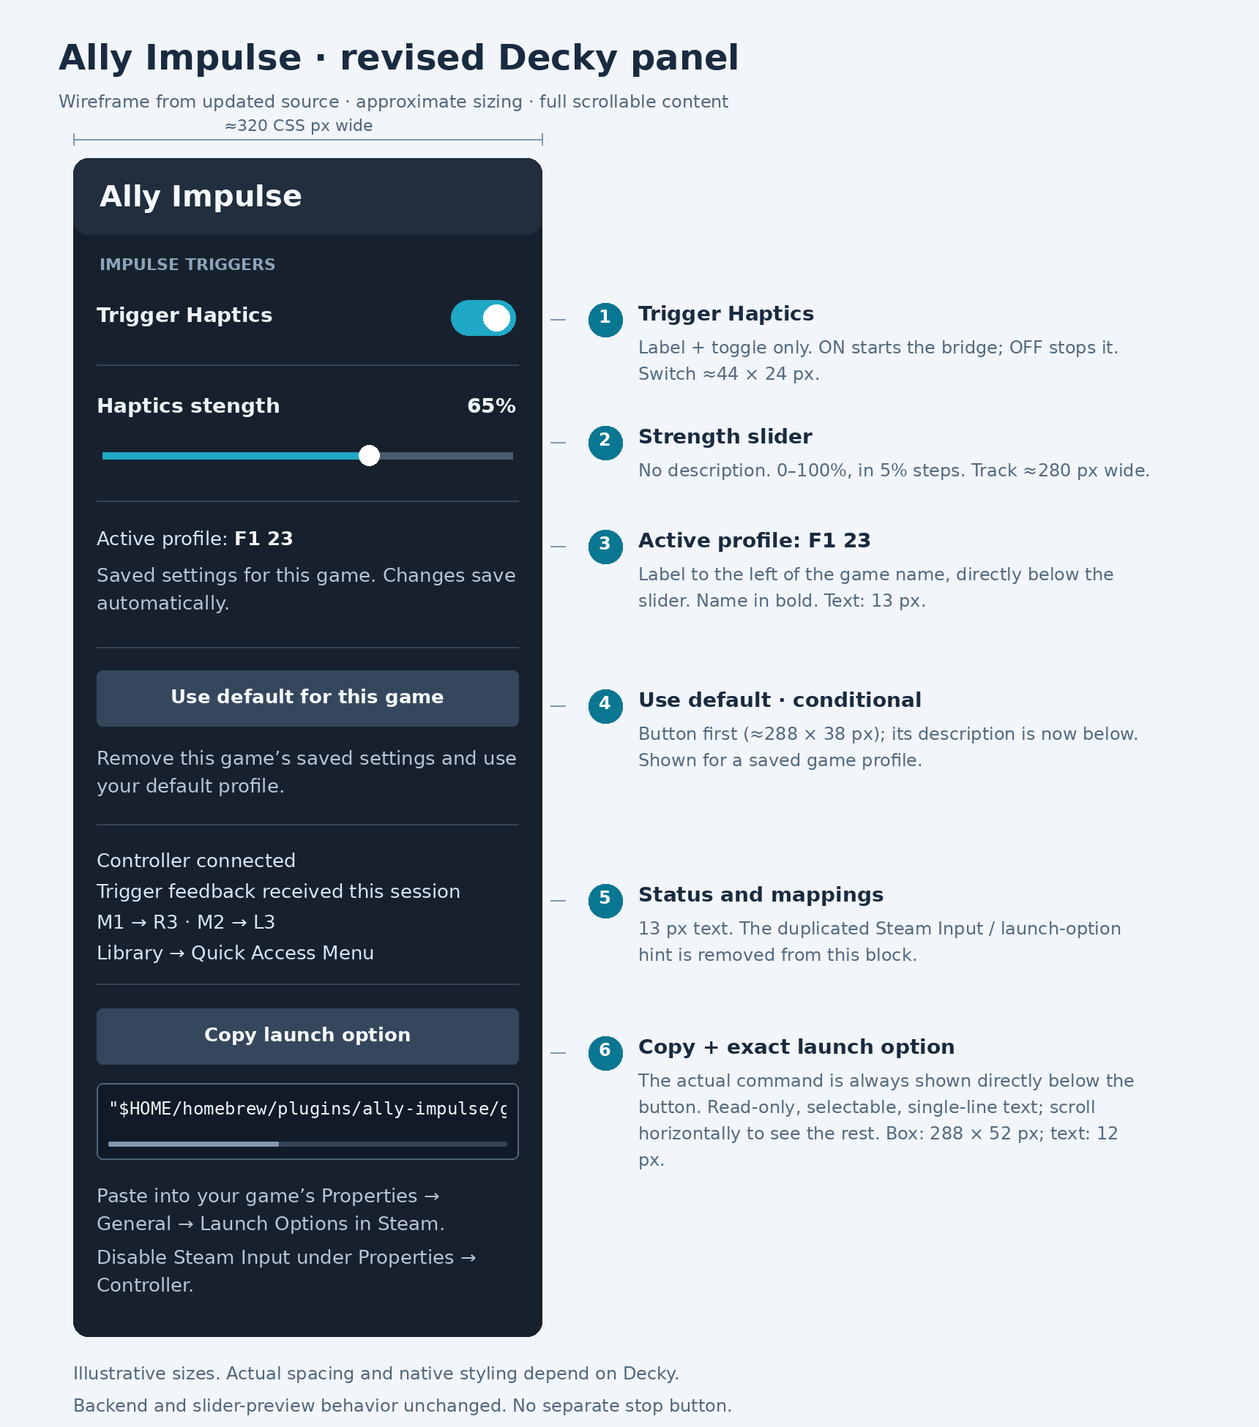
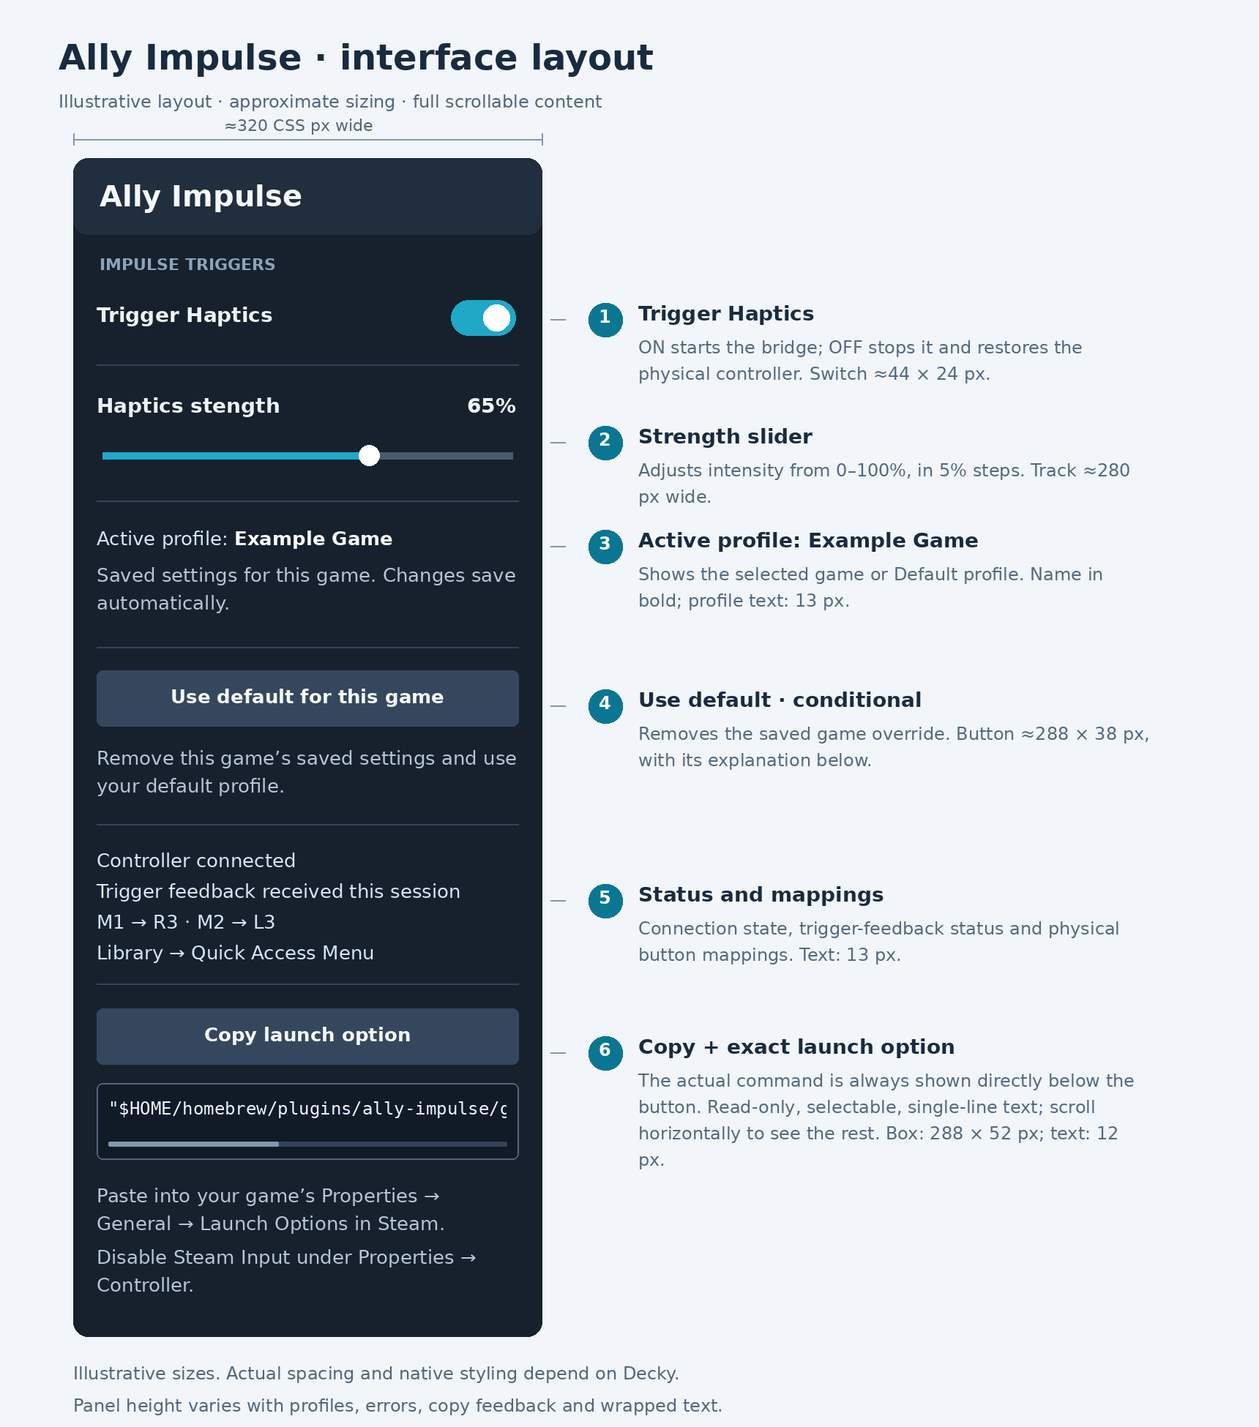
Refine public documentation and use a generic interface example

diff --git a/README.md b/README.md
@@ -1,91 +1,93 @@
 # Ally Impulse
 
-A Decky Loader plugin for genuine, game-driven impulse-trigger vibration on the **Xbox Ally X**. It forwards independent LT/RT feedback to the built-in trigger motors—no vibration is synthesized from throttle, braking or grip rumble.
+A Decky Loader plugin for genuine, game-driven impulse-trigger vibration on the **Xbox Ally X**. It forwards independent left- and right-trigger feedback to the built-in motors rather than deriving effects from throttle, braking or grip rumble.
 
 ## Features
 
-- Enable/disable true Impulse Triggers functionality and adjust its vibration strength from 0–100%.
-- Automatically save and load game-specific vibration strength settings, with a default for other games.
-- Maps M1 → right-stick click (R3); M2 → left-stick click (L3).
-- Maps Library → Steam Quick Access Menu through the kernel’s Xbox+A shortcut.
-- Provides a button to copy and paste the reusable launch option.
+- Toggle trigger haptics and adjust strength from 0–100%, with a short strength preview.
+- Automatically save and load each game’s haptics settings, with a default profile for other games.
+- Map **M1 → right-stick click (R3)** and **M2 → left-stick click (L3)**.
+- Map **Library → Steam Quick Access Menu** through the kernel’s Xbox+A shortcut.
+- Copy a reusable launch option, also displayed in a selectable, read-only field.
+
+See the [interface guide](docs/INTERFACE.md) for control placement and approximate sizes.
 
 ## Tested configuration
 
-User-tested on **Xbox Ally X**:
+The following configurations have user-reported success on **Xbox Ally X**:
 
 | Game | Proton | Additional requirement |
 | --- | --- | --- |
 | Forza Horizon 5 | GE-Proton11-5 | Standard Ally Impulse setup |
 | F1 23 | GE-Proton11-5 | Standard Ally Impulse setup |
-| Forza Motorsport (2023) | GE-Proton11-3-FM | [FM Tools and Xodus setup](https://github.com/SoHiEarth/fm-tools#instructions), plus the controller-ID patch below |
+| Forza Motorsport (2023) | GE-Proton11-3-FM | [FM Tools/Xodus setup](https://github.com/SoHiEarth/fm-tools#instructions) and the [controller-ID patch](#forza-motorsport-2023-required-patch) |
 
-Reported tested SteamOS/kernel combinations:
+Reported working SteamOS/kernel combinations:
 
 | Operating system | Build | Kernel version |
 | --- | --- | --- |
 | SteamOS 3.8.28 | 20260922.1 | `6.18.50-valve2-1-neptune-618-gc7289a96b14d` |
 | SteamOS 3.9.5 | 20261023.100 | `7.2.7-valve2-2-neptune-72-g31504582a073` |
 
-Other games and configurations have not been confirmed. Kernels without the required Ally driver interfaces are rejected with an explanation.
+Other configurations are unconfirmed. There is no exact kernel-version restriction, but the required Ally driver interfaces must be available. Hardware checks currently require Xbox Ally X board `RC73XA` and controller USB ID `0b05:1b4c`.
 
 ## Install
 
-Requires SteamOS, Decky Loader and Python 3. Exit games and stop any existing controller emulators before installing or updating. Choose either installation method below.
+Requires **SteamOS, Decky Loader and Python 3**. Exit games and stop any existing controller bridge before installing or updating.
 
-### Option 1: Install the plugin ZIP through Decky (GUI)
+### Option 1: Install through Decky (GUI)
 
-1. Download the packaged **Ally Impulse plugin ZIP** to your Ally. Use the installable plugin ZIP, not GitHub’s **Source code (zip)** archive.
-2. In Gaming Mode, open **Decky → Settings** (the gear icon).
-3. Under **General**, enable **Developer Mode** if the Developer section is not already visible.
-4. Open **Developer → Install Plugin from ZIP File**, choose **Browse**, and select the downloaded plugin ZIP.
-5. Confirm the installation or update prompt. Ally Impulse should then appear in your Decky plugin list.
+1. Download the packaged **Ally Impulse plugin ZIP**. Use the installable plugin ZIP, not GitHub’s **Source code (zip)** archive.
+2. In Gaming Mode, open **Decky → Settings** using the gear icon.
+3. Under **General**, enable **Developer Mode** if the Developer section is not visible.
+4. Open **Developer → Install Plugin from ZIP File**, select **Browse**, and choose the downloaded ZIP.
+5. Confirm the installation or update prompt.
 
-### Option 2: Copy the repository manually
+### Option 2: Install manually
 
-1. Copy this repository into your Decky plugins directory as `ally-impulse`, normally `/home/deck/homebrew/plugins/ally-impulse`. The compiled frontend is included in `dist/`.
+1. Copy the repository into the Decky plugins directory as `ally-impulse`, normally `$HOME/homebrew/plugins/ally-impulse`. The compiled frontend is included in `dist/`.
 2. Restart Decky:
 
    ```sh
    sudo systemctl restart plugin_loader.service
    ```
 
-### After either installation method
+### Set up a game
 
-1. Open **Decky → Ally Impulse** and turn on **Trigger Haptics** before starting a game.
-2. Disable Steam Input for that game.
-3. Use **Copy launch option**, then paste into **Steam → game that you want Impulse Trigger functionality → game Properties → General → Launch Options**. Save any existing launch options before editing.
+1. Open **Decky → Ally Impulse** and turn on **Trigger Haptics**. Wait for **Controller connected** before launching the game.
+2. In Steam, open the game’s **Properties → Controller** and disable Steam Input.
+3. Select **Copy launch option** in Ally Impulse, then paste it into the game’s **Properties → General → Launch Options**. Preserve any existing options before editing them.
 
-The launch option normally looks like this. `$HOME` expands to the account running Steam, so the command is not tied to a username such as `deck`:
+For a standard installation, the command is:
 
 ```text
 "$HOME/homebrew/plugins/ally-impulse/game-env.sh" %command%
 ```
 
-It is recommended to use **GE-Proton11-5**, as the plugin selects the SDL input route checked against this specific version. In principle, other games can work with this setup if they recognize the virtual Xbox controller and send independent LT/RT vibration through the Wine/SDL path. 
+`$HOME` expands to the account running Steam. The plugin generates the command from its installed location, including a custom installation subdirectory when applicable.
 
-Games that issue only ordinary two-motor rumble cannot provide genuine trigger feedback through this bridge; some games may need additional compatibility fixes. The bridge is not tied to Forza or a particular Proton version, but unlisted games and configurations remain unconfirmed.
+**GE-Proton11-5 is the recommended starting point** for games without a separate compatibility requirement. The wrapper selects a Wine/SDL input path checked against that version. Other games can work if they recognize the virtual controller and send independent LT/RT requests through that path; using the same Proton version alone does not guarantee support. Ordinary two-motor rumble cannot supply genuine trigger feedback.
 
 ## Forza Motorsport (2023): required patch
 
-Motorsport has also been user-tested successfully with **GE-Proton11-3-FM**, but this build needs a controller-ID workaround in Wine’s `windows.gaming.input.dll`. Without it, Motorsport may reject Ally Impulse’s virtual controller. The patch changes controller identification, not trigger-feedback processing.
+The tested **GE-Proton11-3-FM** build needs a controller-ID workaround in Wine’s `windows.gaming.input.dll`. Without it, Motorsport may reject the virtual controller. The patch changes identification, not input or trigger-feedback processing.
 
-Set up Motorsport’s runtime and authentication first:
+Complete the runtime and authentication setup first:
 
-- [FM Tools](https://github.com/SoHiEarth/fm-tools): GE-Proton11-3-FM and the prerequisites for running Motorsport on Linux.
-- [Xodus login and service setup](https://github.com/SoHiEarth/fm-tools#instructions): sign in with `xodus-cli login` and keep `xodus-service` running before launching the game. Follow the repository’s dependencies and complete setup instructions.
+- [FM Tools](https://github.com/SoHiEarth/fm-tools): GE-Proton11-3-FM and Motorsport’s Linux prerequisites.
+- [Xodus login and service setup](https://github.com/SoHiEarth/fm-tools#instructions): sign in with `xodus-cli login` and keep `xodus-service` running before launching the game.
 
-Keep that working setup, the Ally Impulse launch wrapper and Steam Input disabled. **Exit Motorsport completely**, then run from this repository’s directory as the Steam user, **without sudo**:
+With Motorsport fully closed, run these commands from this repository’s directory as the Steam user, **without sudo**:
 
 ```sh
-# Inspect both DLLs; no files are changed.
+# Inspect the installed Proton and game-prefix DLLs without changing them.
 python3 tools/motorsport-wgi-fix.py
 
-# Only after the inspection accepts the exact builds:
+# Apply only after inspection accepts the exact builds.
 python3 tools/motorsport-wgi-fix.py --apply
 ```
 
-The tool discovers the Proton installation and Motorsport prefix, verifies the exact DLL hashes, backs up originals and patches both copies. It refuses unknown builds. Relaunch the game afterward. If you previously added the unsuccessful `PROTON_EMULATE_STEAMINPUT=1` workaround, remove it; retain the working FM Tools options and Ally Impulse wrapper.
+The tool checks both DLL hashes, saves backups and patches both copies. Unknown builds are rejected. Relaunch Motorsport with the working FM Tools options, the Ally Impulse wrapper and Steam Input disabled. Remove `PROTON_EMULATE_STEAMINPUT=1` if it was added as an alternative identity workaround.
 
 To undo, close Motorsport and run:
 
@@ -93,7 +95,7 @@ To undo, close Motorsport and run:
 python3 tools/motorsport-wgi-fix.py --restore
 ```
 
-This is specific to the checked **GE-Proton11-3-FM DLL build**, not every Proton version. Updates can replace it or make it unnecessary. If discovery fails or a hash is rejected, follow the [detailed patch instructions](docs/FORZA-MOTORSPORT.md); do not reuse the byte offsets on another build.
+The patch is specific to this DLL build. Proton updates or prefix repairs may replace it, and newer builds may not need it. For custom paths, hash details and recovery, see the [Motorsport patch guide](docs/FORZA-MOTORSPORT.md).
 
 ## How it works
 
@@ -102,36 +104,30 @@ Game’s independent LT/RT requests → Proton/SDL → virtual Xbox Series HID
 → bridge → Ally’s physical trigger motors
 ```
 
-The plugin creates a virtual Xbox Series Bluetooth HID controller using Linux UHID. It forwards physical controls, scales LT/RT independently and leaves grip amplitudes unchanged. Currently, the bridge requires Xbox Ally X board `RC73XA` and USB controller `0b05:1b4c`. Other models/kernel versions are allowed when they provide UHID, the expected gamepad axes/buttons and the Ally driver’s `gamepad_mode`, `apply_all` and rear-button remapping interfaces.
+The bridge uses Linux UHID to create a virtual Xbox Series Bluetooth HID controller; no Bluetooth pairing is needed. It forwards physical controls, scales LT/RT independently and preserves grip amplitudes. If InputPlumber is active, it is temporarily stopped and blocked from restarting while the bridge owns the controller.
 
-If InputPlumber is active, it is temporarily stopped and blocked from restarting while the bridge runs. 
+Turn **Trigger Haptics** off after exiting the game to stop the bridge and restore saved controller settings and any paused InputPlumber service. Switching it off during gameplay can disconnect the game’s controller.
 
-Turn **Trigger Haptics** off after exiting the game to stop the bridge and restore the original controller configuration and any paused InputPlumber service. Switching it off during a game can disconnect that game’s controller.
-
-The plugin needs root privileges for device access and temporary service management. **It does not replace the kernel, install permanent udev rules or modify games’ launch options automatically.**
-
-See [details and recovery instructions](docs/DETAILS.md) to revert the changes made by the plugin.
+The plugin requires root privileges for device access and temporary service management. It does not replace the kernel, install permanent udev rules or automatically modify game launch options. See [details and recovery instructions](docs/DETAILS.md#restoring-the-original-controller) to revert the changes made by the plugin.
 
 ## Per-game trigger profiles
 
-Launch a game through Steam and open **Decky → Ally Impulse**. The panel shows the running game’s name. Change the strength or enable toggle; those settings are saved automatically for that game and loaded on future launches, even while the plugin panel is closed.
+Launch a game through Steam and open Ally Impulse. **Active profile:** identifies the settings being edited. Changes to the haptics toggle or strength are saved automatically and loaded on future launches, even when the plugin panel is closed.
 
-- With no game running, the controls edit your **Default profile**.
-- Games without saved settings inherit that default until you customize them.
-- **Use default for this game** removes its saved override.
-- Exiting a game restores the default. Profile switches keep the virtual controller connected and do not play preview pings.
+- **Default profile:** used when no game is selected and by games without saved settings.
+- **Game profile:** created when a running game’s settings are customized.
+- **Use default for this game:** removes that game’s override.
+- **Game exit:** restores the default profile without recreating the controller or playing a preview.
 
-Existing settings become your default on upgrade; a copy is kept as `settings-before-game-profiles.json` in the plugin’s Decky settings directory. Profiles persist across Decky restarts and reboots, keyed by Steam AppID. Steam-added non-Steam shortcuts are supported when Steam reports their lifecycle; recreating a shortcut can change its ID.
+Profiles are stored by Steam AppID and persist across Decky restarts and reboots. Steam-added non-Steam shortcuts are supported when Steam reports their lifecycle; recreating a shortcut may change its ID. During upgrades from the older settings format, existing settings become the default and a copy is retained as `settings-before-game-profiles.json`.
 
-Automatic selection uses Steam game-lifetime notifications and its running-app state. If multiple apps are running, the Steam-reported main app is preferred; the last reported running app is the fallback. This feature requires confirmation on your Steam/Decky build. If the panel shows **Default profile** while your game is running, automatic detection has not selected it yet—do not assume edits are being saved for that game.
+Automatic selection uses Steam’s game lifecycle and running-app state. When multiple apps run, the Steam-reported main app is preferred; the last reported running app is the fallback. If **Default profile** remains displayed while a game runs, edits affect the default rather than that game.
 
-Turning **Trigger Haptics** off disables the current profile and the default, stops the bridge and restores the physical controller. Other saved game profiles remain intact and can start it on a later game launch.
+Switching **Trigger Haptics** off disables the current profile and the default, stops the bridge and restores the physical controller. Other saved profiles remain available and can start the bridge on a later game launch.
 
 ## Sleep/wake and system restarts
 
-In my experience, once the bridge is enabled, there is no need to manually disable and re-enable it after sleep/wake or even a system restart. The enabled setting is saved, and the plugin starts the bridge again when Decky loads after a restart.
-
-This is my experience on the tested setup, not a guarantee for every system. The bridge process may not survive a reboot.
+Reported testing has not required manually toggling the bridge after sleep/wake or a system restart. Settings are saved, allowing Decky to start the bridge again when the plugin loads and then select the running game’s profile. Behavior may vary across systems; see [restart behavior and recovery](docs/DETAILS.md#sleep-wake-and-restarts).
 
 ## Build
 
@@ -142,10 +138,10 @@ pnpm build
 
 ## Development and disclaimer
 
-This project is **vibe coded**: it was developed with substantial AI assistance and iterative testing on the author's device.
+This project is **vibe coded**: it was developed with substantial AI assistance and iterative hardware testing.
 
-There is no intentionally malicious code in this project. However, it is provided **as is**, without warranty. Use it at your own risk. I am not responsible for any malfunction, data loss or other damage resulting from its use. See the [MIT license](LICENSE) for the full warranty and liability terms.
+There is no intentionally malicious code in this project. It is provided **as is**, without warranty. Use it at your own risk. The authors and contributors are not responsible for malfunction, data loss or other damage resulting from its use. See the [MIT license](LICENSE) for the full warranty and liability terms.
 
 ## License
 
-[MIT](LICENSE). Included third-party material retains its own notices: the Xbox HID descriptor is adapted from [LizardByte/libvirtualhid](bridge/reference/libvirtualhid-MIT.md), and Decky template/build configuration notices are in [licenses/](licenses/).
+[MIT](LICENSE). Third-party material retains its own notices: the [libvirtualhid-derived Xbox descriptor](bridge/reference/libvirtualhid-MIT.md) and [Decky template/build configuration](licenses/DECKY-TEMPLATE-BSD-3-Clause).

diff --git a/docs/INTERFACE.md b/docs/INTERFACE.md
@@ -1,31 +1,41 @@
-# Expected Decky interface
+# Decky interface guide
 
-This wireframe shows the current control order with an example running game and saved profile. It is an illustration, not a screenshot or a proposed UI change. The complete panel is shown; on-device it scrolls.
+The illustration below shows Ally Impulse with a running game and a saved profile. **Example Game** is a placeholder. The full panel is shown; on the device, the content scrolls as needed.
 
-![Annotated Ally Impulse panel with approximate control sizes](images/decky-interface-wireframe.png)
+![Ally Impulse interface showing an Example Game profile and annotated control sizes](images/decky-interface-wireframe.png)
 
-## Control order
+## Controls, from top to bottom
 
-1. **Trigger Haptics** toggle, without a helper description. Turning it off invokes the existing backend stop-and-restore command.
-2. **Haptics stength** slider, without a preview/silent description. Strength preview behavior is retained.
-3. **Active profile:** followed by the game name on the same line, with its profile description below.
-4. **Use default for this game**, when applicable, with its description below the button.
-5. Connection/feedback status and button mappings. The duplicated Steam Input/launch-option hint is omitted.
-6. **Copy launch option**, immediately followed by the exact launch command in a read-only, selectable, horizontally scrollable text box. Paste/Steam Input instructions follow the box; copy feedback appears afterward when applicable.
+1. **Trigger Haptics** — starts the controller bridge when enabled. Switching it off stops the bridge and restores the physical controller. Exit the game before switching it off.
+2. **Haptics stength** — adjusts trigger intensity from 0–100%, in 5% steps. Changing the value while haptics are enabled plays a short preview.
+3. **Active profile:** — shows the game whose settings are being edited, or **Default profile** when no game is selected. The description below explains whether the game uses saved or default settings.
+4. **Use default for this game** — removes the game’s saved override. This button appears only for a game with customized settings; its explanation is below it.
+5. **Controller status and mappings** — shows the connection state, whether trigger requests have been received, and the rear-button and Library mappings. Errors appear at the end of this block.
+6. **Copy launch option** — copies the command displayed directly below the button. The command field is read-only, supports text selection and scrolls horizontally. Steam setup instructions follow it, with feedback after a copy attempt.
 
-There is no separate **Stop controller bridge** button. The Python backend is unchanged.
+See [per-game profiles](../README.md#per-game-trigger-profiles) for automatic profile selection and [troubleshooting](DETAILS.md#troubleshooting) if the expected game or controller state is not shown.
 
-## Sizing
+## Layout and sizing
 
-- The drawing assumes an approximately 320 CSS-pixel-wide panel, with 16-pixel side padding.
-- Profile and status text are explicitly set to **13 px** with **19.5 px** line height in the source.
-- The launch-command field is always visible below the copy button: **52 px** high, full available width, **12 px** monospace text and **18 px** line height. It does not wrap and supports horizontal scrolling and text selection without editing. Copy feedback is also **12 px** and appears only after a copy attempt.
-- Button sizes (approximately **288 × 38 px**), switch size (approximately **44 × 24 px**) and slider width (approximately **280 px**) are illustrative. Decky supplies their native styling, fonts and spacing; actual rendering may differ across Steam/Decky versions and display scaling.
-- Native Decky components also determine description placement and wrapping within each control group.
+The illustration is a wireframe, not a screenshot. Decky supplies native control styling, so spacing, fonts and wrapping can vary with the Steam/Decky version and display scaling.
 
-## Conditional content
+| Element | Size |
+| --- | --- |
+| Panel in the illustration | Approximately 320 CSS px wide, with 16 px side padding |
+| Profile and status text | 13 px, with 19.5 px line height |
+| Buttons in the illustration | Approximately 288 × 38 px |
+| Toggle in the illustration | Approximately 44 × 24 px |
+| Slider track in the illustration | Approximately 280 px wide |
+| Launch-option field | Full available width; 52 px high; 12 px monospace text with 18 px line height |
+| Copy feedback | 12 px text |
 
-- **Use default for this game** appears only when the running game has a saved override.
-- Controller feedback status appears while the virtual controller is ready.
-- Errors appear after the status/mappings block when present.
-- Copy feedback appears after the setup instructions following a copy attempt. The launch-command box is always visible directly below the copy button.
+The launch-option field stays on one line. Scroll horizontally to view the complete command, or select and copy its text manually.
+
+## Content that appears when needed
+
+- A saved game profile adds the **Use default for this game** button and its description.
+- A ready controller adds the trigger-feedback status line.
+- Startup or runtime errors add an error message to the status block.
+- A copy attempt adds a success or failure message below the setup instructions.
+
+These additions, long game names and wrapped descriptions can change the panel’s total height.
